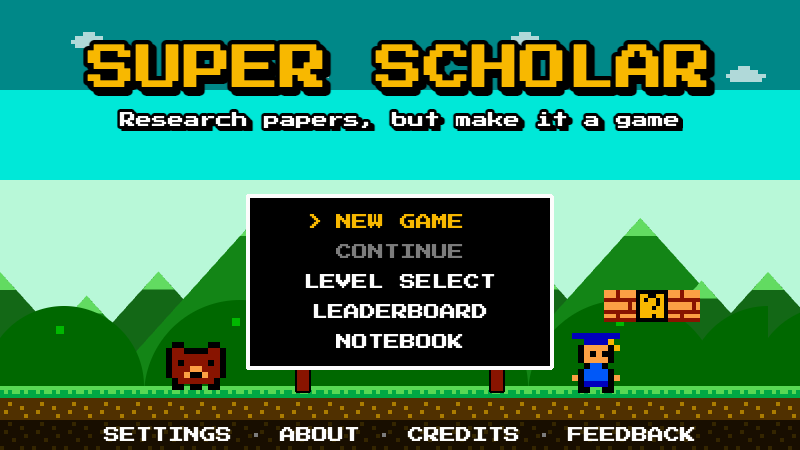
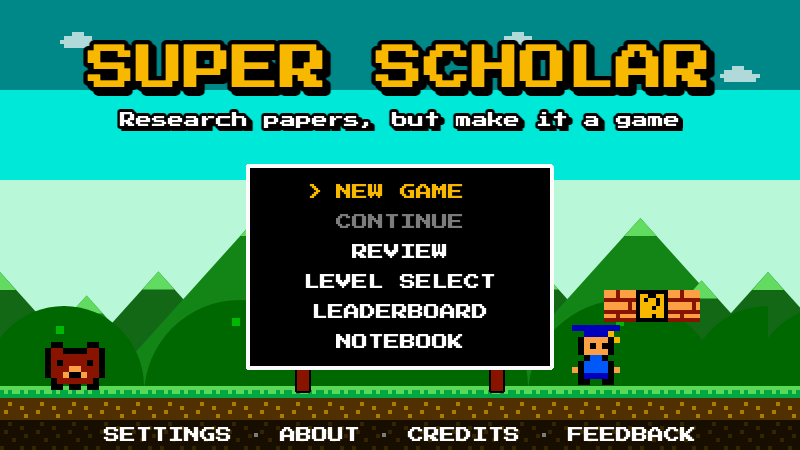
Update the portfolio note for Review mode, harder levels, and play-through checks
Synced-From: 143d0429f5fb50703c7d45a6c1dd0c03e8758dbb

diff --git a/portfolio/Super Scholar.md b/portfolio/Super Scholar.md
@@ -17,11 +17,12 @@ link: https://super-scholar.super-scholar.workers.dev
 
 Super Scholar turns a dense research paper into an NES-style platformer. Each section of the paper becomes a world:
 
-- **Levels** you run and jump through with WASD (or on-screen controls on a phone). Stomping bears unlocks fun facts from the paper.
-- **A lesson** from the professor at the end of every level, followed by a practice question. A right answer earns a life; a wrong one highlights your pick in red and the right answer in green, then explains why.
-- **A boss fight** at the end of every world. Stomp the boss to make it ask a question: a right answer hurts it, a wrong one makes it angrier and faster.
-- **Ask the Scholar:** after a lesson, type any question about it and get a short, plain-language answer with an everyday example.
+- **Levels** you run and jump through with WASD (or on-screen controls on a phone): jump chains, running jumps over wide pits, bears to time, and walls to climb. Stomping bears unlocks fun facts from the paper.
+- **A lesson** from the professor at the end of every level, followed by a practice question. A wrong pick shows in red with the right answer in green, then an explanation.
+- **A boss fight** at the end of every world. Stomp the boss to make it ask a question: a right answer hurts it, a wrong one makes it angrier, and missed questions come back for a second try.
+- **Review mode:** already read the paper? Skip the levels and test yourself on one section or all of them, boss by boss. The results mark each section KNOWN or RE-READ, and RE-READ opens that section's lessons, so the loop is test, re-read, test again.
 - **The Scholar's Notebook:** every lesson, fact, and question you've unlocked, saved as flashcards to study later.
+- **Ask the Scholar:** after a lesson, type any question about it and get a short, plain-language answer with an everyday example.
 
 ## Why I built it
 
@@ -36,20 +37,22 @@ I wanted to actually read papers like Avellaneda & Lee's *Statistical Arbitrage 
 ## Features
 
 **Gameplay**
-- 3 levels and a boss per world; levels for new papers are generated from hand-designed, beatable chunks, seeded per paper so each paper always plays the same
+- 3 levels and a boss per world. Levels are generated from hand-designed chunks of four kinds of challenge (jump chains, wide gaps, timing, climbing), seeded per paper so each paper always plays the same, and they get harder with each level and world
+- Every generated level is proved beatable with the game's real jump physics: only fair jumps, at most 80% of a perfect jump's reach, with arcs that clear any wall in between
 - Five boss styles that rotate by world: the Charger, the Jumper, the Thrower, the Summoner, and the Flyer
 - Bears, spikes, pits, moving and drop-through platforms, coins, ? blocks, hearts, and a shield power-up
-- 1-3 stars per level and boss, a level select map, and an optional HARD mode
-- TOP SCHOLARS leaderboard per paper, ranked by questions answered right on the first try
+- 1-3 stars per level and boss, a level select map, an optional HARD mode with harder layouts, and a TOP SCHOLARS leaderboard per paper
 
 **Learning**
 - Lessons with back-and-forth paging and short reading lines, so text is easy to follow
 - Practice questions after every lesson and quiz questions in every boss fight, with the right answer and an explanation after every miss
-- Quiz review of missed boss questions, and question-first flashcards in the Notebook (recall the answer, then flip)
+- Review mode with per-section scores and RE-READ links into the lessons
+- A Notebook with one screen per paper: switch worlds and LESSONS / FACTS / CARDS tabs in place, question-first flashcards, and a line saying how to unlock what's left
 
 **Polish**
 - Chiptune music and sound effects generated in code with Web Audio, with volume settings
 - Animated title screen, title cards for every level, pixel particle effects, and a pause menu with a visible pause button
+- Question and result boxes centered between the HUD and the ground, widening for long AI-written questions instead of covering the game
 - Works on laptops, phones, and tablets (multi-touch controls); progress saves in the browser with CONTINUE
 - In-game feedback form
 
@@ -57,8 +60,8 @@ I wanted to actually read papers like Avellaneda & Lee's *Statistical Arbitrage 
 
 - **Frontend:** TypeScript (strict), Phaser 4, Vite, pdf.js for reading uploaded PDFs in the browser
 - **Backend:** Cloudflare Workers (static game plus a small API) and Cloudflare KV for saved AI worlds, feedback, and the leaderboard
-- **AI:** Gemini 3.5 Flash-Lite, with Gemini 3.1 Flash-Lite and Groq (Llama 3.3 70B) as fallbacks; API keys kept server-side as secrets
-- **Testing:** Vitest (159 tests) plus scripted end-to-end playthroughs in the browser
+- **AI:** Gemini 3.5 Flash-Lite, with Gemini 3.1 Flash-Lite and Groq (Llama 3.3 70B) as fallbacks; API keys kept server-side as secrets; AI output is checked for copying, length, and repeated facts before it's played
+- **Testing:** Vitest (175 tests) plus 12 Playwright play-through checks that play the real game in a hidden browser and screenshot each screen; every deploy runs both, so a broken jump or an overflowing text box stops the release
 - **Security:** Content Security Policy and security headers, rate limits on every API route, input validation, secret scanning, and a dependency audit
 - **Tools:** Built with AI assistance
 
@@ -66,7 +69,8 @@ I wanted to actually read papers like Avellaneda & Lee's *Statistical Arbitrage 
 
 - Built as my independent project for CS 124 at the University of Illinois (Fall 2026)
 - Started from a quick prototype, then grew it one feature at a time, each tested and deployed before the next
-- Ran play-tests with classmates and turned their feedback into fixes: a higher jump to reach platforms, no repeated fun facts, a visible pause button, an optional HARD mode, and right/wrong answers highlighted in green and red
+- Ran play-tests with classmates and turned their feedback into fixes: a higher jump to reach platforms, no repeated fun facts, a visible pause button, right/wrong answers in green and red, a Notebook that explains itself, a tag on boss questions that come back, a tip when touching the boss hurts, and harder, more engaging levels
+- Presented to a group of classmates and built their idea of "learn first, then test yourself" into Review mode
 - Moved hosting from Netlify to Cloudflare when frequent deploys used up Netlify's free plan
 
 ## Screenshots
@@ -77,6 +81,9 @@ I wanted to actually read papers like Avellaneda & Lee's *Statistical Arbitrage 
 ![A level](super-scholar-level.png)
 *World 1-1: stomping a bear unlocks a fun fact from the paper*
 
+![A challenge](super-scholar-challenge.png)
+*Hopping from brick to brick over a bed of candles*
+
 ![A lesson](super-scholar-lesson.png)
 *The professor's lesson at the end of a level*
 
@@ -85,3 +92,9 @@ I wanted to actually read papers like Avellaneda & Lee's *Statistical Arbitrage 
 
 ![A boss fight](super-scholar-boss.png)
 *Boss fight: the Thrower, dizzy and ready to be stomped*
+
+![Review results](super-scholar-review.png)
+*Review mode: a score for each section, with RE-READ on the one to study again*
+
+![The Notebook](super-scholar-notebook.png)
+*The Scholar's Notebook: lessons, facts, and flashcards, a world at a time*
